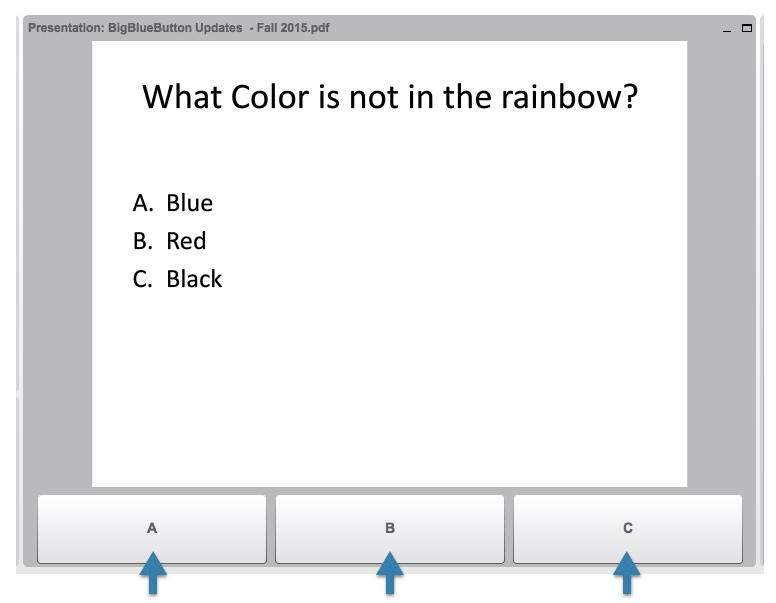
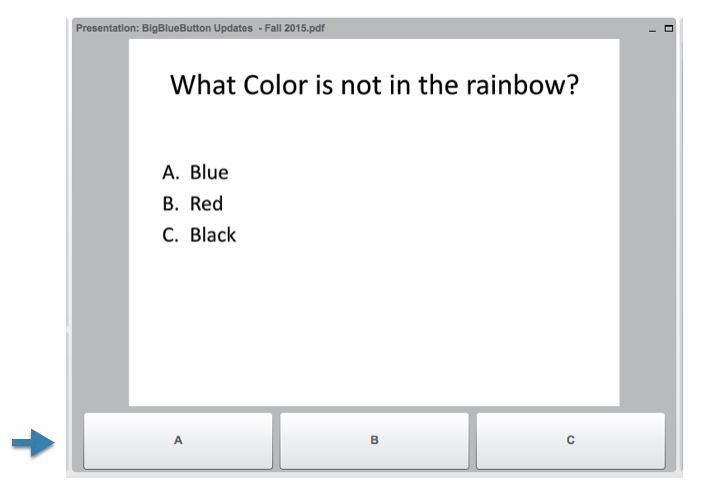
Updates to 1.0 overview

Changed region(s): [[0.0, 0.0, 0.9886, 1.0]]

diff --git a/10overview.md b/10overview.md
@@ -3,73 +3,295 @@ layout: page
 title: "1.0"
 ---
 
+This document covers the new capabilities in BigBlueButton 1.0-beta (referred hereafter as simply BigBlueButton 1.0).
 
+# BigBlueButton 1.0
 
-# BigBlueButton 1.0-beta
+The goal of this release is to increase interactivity between the teachers and student with three new features:
 
-This document covers what is new in BigblueButton 1.0-beta (referred hereafter as 1.0).
+  * Polling (see [1586](https://github.com/bigbluebutton/bigbluebutton/issues/1586))
+  * Improved Video Doc (see [2790](https://github.com/bigbluebutton/bigbluebutton/issues/2790))
+  * Emote Icons (see [2791](https://github.com/bigbluebutton/bigbluebutton/issues/2791))
 
-The goal of this release is to increase interactivity between the instructor and student.  For users there are three new capabilities in this release
+As with every release, we've refactored and improved the underly stability:
 
-  * Polling
-  * Improved Video Doc
-  * Emote Icons
+  * Refactoring of message passing bbb-apps (see [2684](https://github.com/bigbluebutton/bigbluebutton/issues/2684))
+  * Automatic reconnect of client (see [1634](https://github.com/bigbluebutton/bigbluebutton/issues/1634))
 
-As with every release, we refactor specific components to improve stability.  
-  * Refactoring of message passing (see [2684](https://github.com/bigbluebutton/bigbluebutton/issues/2684))
-  * Automatic reconnect of client
+We've added enhancements for developers/administrators as well, which include
 
-We've added enhancements for developers as well
-  * Desksahre TLS over Stunnel
-  * API Updates
+  * Deskshare TLS over Stunnel (see [2792](https://github.com/bigbluebutton/bigbluebutton/issues/2792))
+  * API Updates (see [2793](https://github.com/bigbluebutton/bigbluebutton/issues/2793))
   * WebHooks
 
-We've also updated the build scripts to work with servers that have HTTPS installed.  
+We've also updated the build scripts to work with servers that have [HTTPS installed](/install/install.html#configuring-https-on-bigbluebutton).
+
+For those of you who have followed the project for a while you may be thinking "Wow, these guys are actually going to release 1.0."  Yes, we are.  In some ways, it's a bit anticlimactic.  There have so many production deployments of BigBlueButton in recent years that suggests the version number should be much higher.  Some companies have been running BigBlueButton in production since 2009.  Also, we also want to move to [semantic versioning](http://semver.org/) as it's easier for the community to better follow how the product changes between release.  
+
+Welcome to BigBlueButton 1.0.0.  We hope you enjoy this release.
 
 
-# Polling
+# Features
 
-Our guiding design polling was the following user story
+## Polling
 
-  _As an instructor I want to easily poll my students to increase their engagement and use the polling results help me re-enforce key concepts._
+We designed polling based on the following user story:
 
-We observed that the current slide provides the context for discussion and can also provide the context for polling.  Consider the following slide:
+  _As an instructor I want to easily poll my students to increase their engagement and use the results help teach key concepts._
+
+We focused our efforts on the word 'easy'.  We wanted to make easy for the instructor to initiate a poll, see the incoming results live, and publish them for students. 
+
+In looking at many lectures, we observed that the current slide provides the context for discussion and, in many cases, the context for a poll-type question.  Consider the following slide:
 
 ![Context](/images/polling-context.png)
 
-It would be natural for the instructor to ask students "What do you think is the answer?". 
-
-Focusing on 'easy', we built polling to be as seamless and quick as possible -- in some cases the presenter can initiate a poll with a single click.  Polling offers three types of interactions
+It would be natural for the instructor to ask students "What do you think is the answer?" and initiate a poll (ideally using a single click).  Polling in BigBlueButton offers three types of interactions:
 
    1. Pre-configured choices
    1. Smart Polling
    1. Custom Choices
 
-## Pre-configured choices
+### Pre-configured choices
 
-The presenter can initiate a poll at anytime during the session.  To initiate a poll, the presenter clicks the polling button (located to the right of the upload slide button) and chooses from a list of pre-defined questions.
+The presenter can initiate a poll at anytime.  To initiate a poll, the presenter clicks the polling button (located in the lower left of the Presentation window) and chooses from a list of pre-defined questions.
 
 ![Pre-defined](/images/polling-pop-up.png)
 
-When the presenter initiates a poll, a dialog box appears showing the results in real-time (along with the number of respondents).
+When the presenter initiates a poll, the Live Results dialog box appears showing the incoming results in real-time.
 
 ![Live Results](/images/polling-live-results.png)
 
-At this point only the presenter sees the results.  The presenter can close the polling results (no one else sees the results) or click 'Publish' to publish the results to the presentation as a whiteboard mark.
+At any point in watching the Live Results, the presenter can close the dialog (this ends the poll) or click 'Publish' to close the poll and publish the current results as a whiteboard annotation to the current slide. 
 
 ![Publish](/images/polling-publish.png)
 
-Here the presenter can zoom into the poll results, annotate them with the whiteboard tools, and clear them with whiteboard controls.
+Like any annotation, the presenter can zoom into, further annotate them with the whiteboard tools (maybe call attention to one of the results), and clear the published results  with whiteboard 'x' clear button.  If the user has accessibility options enabled in their operating system, the BigBlueButton client will also publish the polling results to the chat so it can be picked up by a screen reader.
 
-When the presenter initiates a poll, the other users will hear a soft beam and the choices will appear underneath the  slide.  
+From the user's perspective, when the presenter initiates a poll they will hear a soft beep and see the poll choices appear under the slide.  
 
 ![Response](/images/polling-response.png)
 
-Users can respond with a single click.
+This way users can still read the contents of the slide and respond with a single click.  
 
-## Smart Polling
+Polling is anonymous.  When the Live Results dialog is open, the presenter may see '12/14' responses and keep waiting until the remaining two uses respond.  However, if they are away from their keyboard they will not.  If the presenter wanted to identify which users are at their keyboard, they could ask all students to raise their had, which is not anonymous.  The two users who do not raise their hand are away from the keyboard.
 
-Let's look again at the slide -- notice that it follows a standard pattern of having the choices prefixes by A., B., and C..  BigBlueButton will scan the text of the slides and present the instructor a _smart poll_ button to initiate the a three choice poll with a single click.
+Any published poll results will appear in the recordings.
+
+![Response](/images/polling-recording.png)
+
+### Smart Polling
+
+Let's look again at the sample slide.  
+
+![Context](/images/polling-context.png)
+
+Notice it follows the pattern of a statement followed by options prefixed with 'A.', 'B.', and 'C.'.  You'll get the same pattern using PowerPoint, KeyNote, Libre Office, Google Slides, or any presentation software to create an alphabetically numbered outline.  
+
+BigBlueButton client recognizes this pattern and, if found, will present the instructor a _Smart Poll_ button with the matching pre-defined choice.  This enables the instructor to initiate a poll based on the content in the slide with a single click.
 
 ![Response](/images/polling-smart-poll.png)
 
+The BigBlueButton client also scans for the text 'true/false' and 'false/true' in the slide and, if found, put a Smart Poll button for 'True/False'.
+
+![Response](/images/polling-true-false.png)
+
+In a similar manner, it will scan for the text 'yes/no' and 'no/yes' and, if found, put a Smart Poll button for 'Yes/No'.
+
+![Response](/images/polling-yes-no.png)
+
+In this way, the presenter can put a set of polling questions in their slides so during their lecture they can quickly and easily poll the students to remove the material with a single click per slide.
+
+### Custom Choices
+
+Polling does not require the presenter to upload slides.  The presenter can poll the students anytime.  The pre-set choices for 'Yes/No' are good examples.  The presenter can also enter their own polling choices (up to six) for a custom poll.  
+
+![Custom Choices](/images/polling-enter-custom.png)
+
+Just as before, when the presenter clicks 'Start Poll' the range of choices will appear for students underneath the current slide.
+
+![Custom Choices](/images/polling-custom-response.png)
+
+As before, the presenter can watch the incoming Live Results publish them to the slide.
+
+## Improved Video Dock
+
+We removed the boarders from the webcam videos so to give the maximum amount of space to the videos.  Here's an example of four webcams
+
+![Webcam 1](/images/10-video-dock-1.png)
+
+The videos will flow the make the maximum use of space.  Here's what the videos flow into a horizontal window.
+
+![Webcam 2](/images/10-video-dock-2.png)
+
+Here are eight webcams being shared and one has been clicked on to make it larger than others.
+
+![Webcam 3](/images/10-video-dock-3.png)
+
+## Emote Icons
+
+Sometimes the instructor may want to as a class "How is everyone feeling about the lecutre?".  The addition of emote icons enable students to raise their hand and give feedback to such questions.
+
+![Emote Icons](/images/10-emote-icons.png)
+
+The emote icons appear to the left of the user's name in the Users window.
+
+![Emote Icons](/images/10-emote-icons-2.png)
+
+
+# Stability Improvements
+
+## Refactoring of red5
+
+We've extracted the core messaging in red5 into two external servers.  The messaging for bbb-apps now goes through `bbb-akka-apps` and the messaging for FreeSWITCH using the Event Socket Layer now goes through `bbb-akka-fsesl`.  
+
+[Akka](http://akka.io/) is a toolkit and runtime for building highly concurrent, distributed, and resilient message-driven applications on the Java Virtual Machine.  Using Akka simplified the design of the messaging passing and also exposed the messaging, which uses redis pub/sub, for easy integration with other systems.  
+
+## Automatic reconnect of the Client
+
+In previous versions if the user experiences a temporary network disconnect, the BigBlueButton client would immediately disconnect and give the user the option to reconnect.  However, we wanted to automate this process to have the client attempt to reconnect on behalf of the user.  
+
+![Reconnecting](/images/10-reconnecting.png)
+
+If the user is connected to audio using WebRTC (which is the default audio for FireFox and Chrome), it may stay connected as it uses UDP, in which case the user can still talk with the class while the client automatically reconnects.
+
+# Core Updates
+
+## API Extensions
+
+We extended the data returned for `getMeetings` and `getMeetingInfo`.
+
+### getMeetings
+
+This release added the following new parameters to the `getMeetings` API call.
+
+Response:
+
+| Change | Param Name | When Returned | Type | Description |
+|:------:|:----------:|:-------------:|:----:|:------------|
+| Added | voiceBridge (within `<meeting>`) | Always | Number | The voice bridge configured when the meeting was created (param `voiceBridge`). |
+| Added | dialNumber (within `<meeting>`) | Always | String | The dial number configured when the meeting was created (param `dialNumber`). |
+| Added | participantCount (within `<meeting>`) | Always | Number | Number of *participants* in a meeting. It's the same `participantCount` returned in `getMeetingInfo`. |
+| Added | listenerCount (within `<meeting>`) | Always | Number | Number of participants listening to a meeting (using the listen only mode). It's the same `listenerCount` returned in `getMeetingInfo`. |
+| Added | voiceParticipantCount (within `<meeting>`) | Always | Number | Number of participants *in the audio conference* of a meeting. It's the same `voiceParticipantCount` returned in `getMeetingInfo`. |
+| Added | videoCount (within `<meeting>`) | Always | Number | Number of participants *sharing video* in a meeting. |
+
+Example Response:
+
+```xml
+<response>
+  <returncode>SUCCESS</returncode>
+  <meetings>
+    <meeting>
+      <meetingID>Demo Meeting</meetingID>
+      <meetingName>Demo Meeting</meetingName>
+      <createTime>1411067830029</createTime>
+      <createDate>Thu Sep 18 19:17:10 UTC 2014</createDate>
+      <voiceBridge>74518</voiceBridge> <!-- Added -->
+      <dialNumber>613-555-1234</dialNumber> <!-- Added -->
+      <attendeePW>ap</attendeePW>
+      <moderatorPW>mp</moderatorPW>
+      <hasBeenForciblyEnded>false</hasBeenForciblyEnded>
+      <running>true</running>
+      <participantCount>2</participantCount> <!-- Added -->
+      <listenerCount>1</listenerCount> <!-- Added -->
+      <voiceParticipantCount>1</voiceParticipantCount> <!-- Added -->
+      <videoCount>1</videoCount> <!-- Added -->
+      <duration>0</duration>
+      <hasUserJoined>true</hasUserJoined>
+    </meeting>
+  </meetings>
+</response>
+```
+
+### getMeetingInfo
+
+This release added the following new parameters to the `getMeetingInfo` API call.  We added a new `meta` API call to `getRecordings` to help search for specific recordings.
+
+Response:
+
+| Change | Param Name | When Returned | Type | Description |
+|:------:|:----------:|:-------------:|:----:|:------------|
+| Added | internalMeetingID | Always | String | The internal identifier of this meeting. Can be used to access a video stream directly from Red5, for example. |
+| Added | listenerCount | Always | Number | Number of participants listening to a meeting (using the listen only mode). It's the same `listenerCount` returned in `getMeetings`. |
+| Added | voiceParticipantCount | Always | Number | Number of participants *in the audio conference*. It's the same `voiceParticipantCount` returned in `getMeetings`. |
+| Added | videoCount | Always | Number | Number of participants *sharing video*. It's the same `videoCount` returned in `getMeetings`. |
+| Added | isPresenter (within `<attendee>`) | Always | Boolean | True if the attendee is the current presenter. There can only be one presenter at a time in a meeting. |
+| Added | isListeningOnly (within `<attendee>`) | Always | Boolean | True if the attendee is listening to the voice conference using the listen only mode. |
+| Added | hasJoinedVoice (within `<attendee>`) | Always | Boolean | True if the attendee has joined to the audio conference and shares audio with other attendees. |
+| Added | hasVideo (within `<attendee>`) | Always | Boolean | True if the attendee is sharing a webcam. |
+
+Example Response:
+
+```xml
+<response>
+  <returncode>SUCCESS</returncode>
+  <meetingName>Demo Meeting</meetingName>
+  <meetingID>Demo Meeting</meetingID>
+  <internalMeetingID> <!-- Added -->
+    183f0bf3a0982a127bdb8161e0c44eb696b3e75c-1411067830029
+  </internalMeetingID>
+  <createTime>1411067830029</createTime>
+  <createDate>Thu Sep 18 19:17:10 UTC 2014</createDate>
+  <voiceBridge>74518</voiceBridge>
+  <dialNumber>613-555-1234</dialNumber>
+  <attendeePW>ap</attendeePW>
+  <moderatorPW>mp</moderatorPW>
+  <running>true</running>
+  <duration>0</duration>
+  <hasUserJoined>true</hasUserJoined>
+  <recording>false</recording>
+  <hasBeenForciblyEnded>false</hasBeenForciblyEnded>
+  <startTime>1411067830152</startTime>
+  <endTime>0</endTime>
+  <participantCount>2</participantCount>
+  <listenerCount>1</listenerCount> <!-- Added -->
+  <voiceParticipantCount>1</voiceParticipantCount> <!-- Added -->
+  <videoCount>1</videoCount> <!-- Added -->
+  <maxUsers>20</maxUsers>
+  <moderatorCount>1</moderatorCount>
+  <attendees>
+    <attendee>
+      <userID>r4osda8xzlsg</userID>
+      <fullName>stu</fullName>
+      <role>VIEWER</role>
+      <isPresenter>false</isPresenter> <!-- Added -->
+      <isListeningOnly>false</isListeningOnly> <!-- Added -->
+      <hasJoinedVoice>true</hasJoinedVoice> <!-- Added -->
+      <hasVideo>true</hasVideo> <!-- Added -->
+      <customdata/>
+    </attendee>
+    <attendee>
+      <userID>jgkgwilgigcf</userID>
+      <fullName>mod</fullName>
+      <role>MODERATOR</role>
+      <isPresenter>true</isPresenter> <!-- Added -->
+      <isListeningOnly>true</isListeningOnly> <!-- Added -->
+      <hasJoinedVoice>false</hasJoinedVoice> <!-- Added -->
+      <hasVideo>false</hasVideo> <!-- Added -->
+      <customdata/>
+    </attendee>
+  </attendees>
+  <metadata/>
+  <messageKey/>
+  <message/>
+</response>
+```
+
+### getRecordings
+
+We added a meta parameter to the `getRecordings` API call to filter recordings.
+
+Parameters:
+
+| Change | Param Name | When Returned | Type | Description |
+|:------:|:----------:|:-------------:|:----:|:------------|
+| Added | meta | Optional | String | You can pass one or more metadata values to filter the recordings returned. The format of these parameters is the same as the metadata passed to the `create` call. For more information see [the docs for the create call](http://docs.bigbluebutton.org/dev/api.html#create). |
+
+Example Requests:
+
+```bash
+http://yourserver.com/bigbluebutton/api/getRecordings?meta_presenter=joe&meta_category=education&checksum=1234
+```
+## Webhooks
+
+For details see [Webhooks](/labs/webhooks.html) document.
